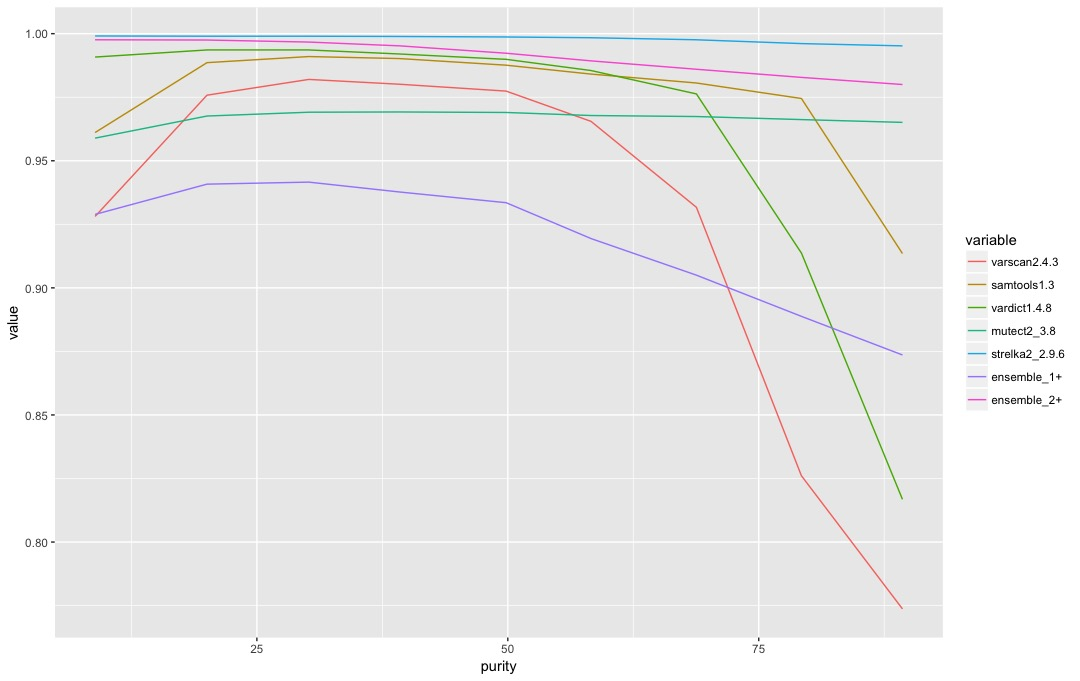
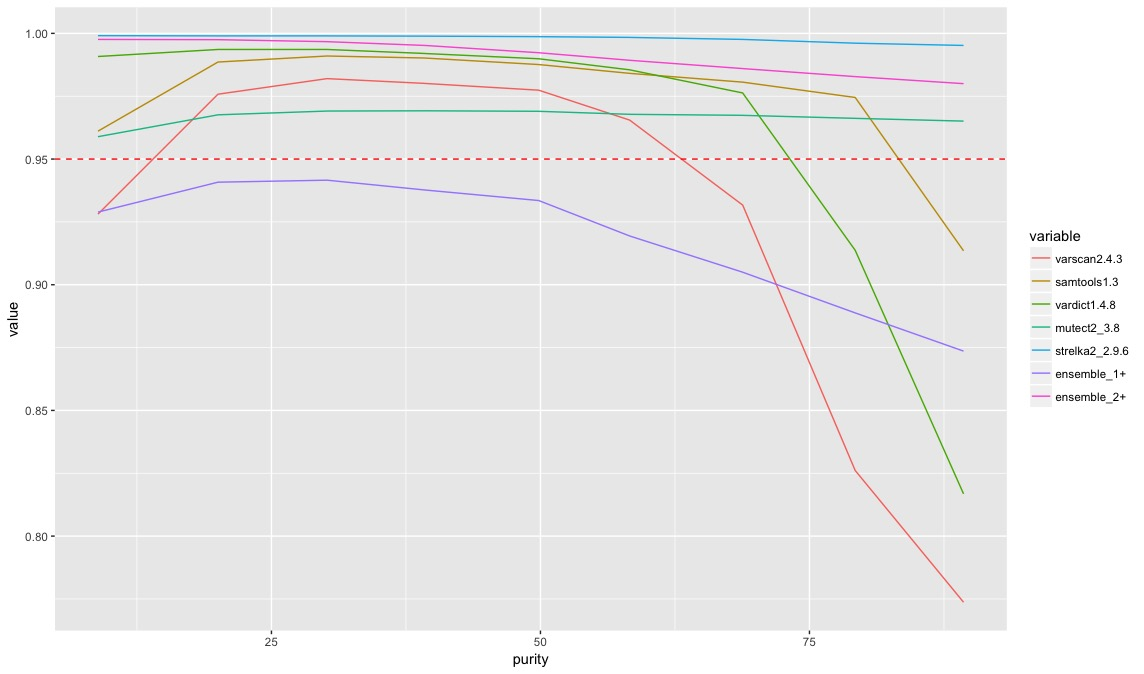
final Nov 22 commit

diff --git a/README.md b/README.md
@@ -301,6 +301,16 @@ Choices either chr 5 or chr9.  Favoring chr 9 due to GC content.
 
 ![HG001_HG002.f1score](img/HG001_HG002_F1score.jpeg)
 
+## Observations
+
+1. Precision >=95%: Ensemble_2+, Strelka2 and mutect2 stable accross all purity ranges.  Vardict is good at low purity 10-80%.  Samtools and Varscan2 good between 20% to 60%.  Ensemble_1+ below 95%
+
+2. Sensitivity >=95%: >=20% Ensemble_1+, >=30% purity Ensemble +2+, Mutect2, and Vardict, >=40% purity strelka2,  40-70% varscan2,  50-80% samtools
+
+3. F1-score >=95%: >=20% purity mutect2, Ensemble_2+, >=30% purity strelka2, 30-60% Ensemble_1+, varscan2, 40-80% samtools
+
+Any new caller to test? Or move onto RNA and structural variants.
+
 ### Contact info
 For any questions or concerns regarding information contained within please contact: 
 
